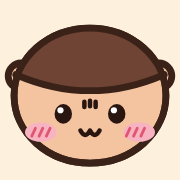
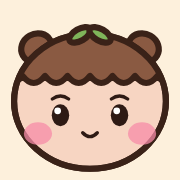
Replace the mascot with an original character (bamtori), add dome houses, default to sunset
Claude-Session: https://claude.ai/code/session_01LxcXJGcjpSvDKqZkVKpMtS

diff --git a/index.html b/index.html
@@ -3,7 +3,7 @@
 <head>
 <meta charset="utf-8">
 <meta name="viewport" content="width=device-width,initial-scale=1,viewport-fit=cover">
-<title>kurimanju</title>
+<title>bamtori</title>
 <link rel="icon" type="image/svg+xml" href="favicon.svg">
 <link rel="icon" type="image/png" sizes="32x32" href="favicon-32.png">
 <link rel="apple-touch-icon" href="apple-touch-icon.png">
@@ -11,7 +11,7 @@
 </head>
 <body>
 <style>
-/* Layout: full-bleed 3D forest floor; music and time-of-day controls bottom-right. */
+/* Layout: full-bleed 3D forest floor; a small caption bottom-left and time-of-day + friend controls bottom-right. */
 :root{
   --bg:#f3e3c8;
   --ink:#3b2a20;
@@ -44,7 +44,7 @@ svg{width:20px;height:20px;fill:none;stroke:currentColor;stroke-width:1.8;stroke
 button:focus-visible{outline:2px solid var(--accent);outline-offset:2px}
 </style>
 
-<canvas id="view" aria-label="밤만쥬가 가을 숲을 걸어다니는 3D 장면"></canvas>
+<canvas id="view" aria-label="밤톨이들이 마을 숲을 걸어 다니는 3D 장면"></canvas>
 <div class="ui">
   <div class="ctl">
     <div class="seg" id="musicWrap" hidden>
@@ -116,6 +116,47 @@ function tree(x,z,s){
 }
 for (let i=0;i<14;i++){ const a = i/14*Math.PI*2 + Math.random()*.25, r = 10 + Math.random()*4; tree(Math.cos(a)*r, Math.sin(a)*r, .9+Math.random()*.45); }
 for (let i=0;i<26;i++){ const a = i/26*Math.PI*2 + Math.random()*.2, r = 19 + Math.random()*11; tree(Math.cos(a)*r, Math.sin(a)*r, 1.5+Math.random()*1.1); }
+// ---- little white dome houses with an arched door and a cross window ----
+const HOUSES = [[7.6,-5.6,1.05],[-9,-3.8,1.1],[9.2,2.6,.95],[-7.4,6.2,1],[2.4,-9.4,1.1],[-1.6,9.2,.9]];
+(function(){
+  const R = 1.3, SX = 1.15, SY = .82, SZ = 1.0, A = R*SX, B = R*SY, C = R*SZ;
+  const domeGeo = new THREE.SphereGeometry(R, 36, 20, 0, Math.PI*2, 0, Math.PI/2);
+  const lightRamp = new THREE.DataTexture(new Uint8Array([215,250]), 2, 1, THREE.LuminanceFormat); lightRamp.minFilter = lightRamp.magFilter = THREE.NearestFilter; lightRamp.needsUpdate = true;
+  const wall = new THREE.MeshToonMaterial({color:0xfff8ee, gradientMap:lightRamp, emissive:0x6a5a4e});
+  const lineMat = new THREE.MeshBasicMaterial({color:0x4a2f26, side:THREE.BackSide});
+  const surf = (x,y) => C*Math.sqrt(Math.max(0, 1-(x/A)**2-(y/B)**2));
+  const tex = (w,h,draw) => { const c = document.createElement('canvas'); c.width = w; c.height = h; draw(c.getContext('2d'), w, h); const t = new THREE.CanvasTexture(c); t.anisotropy = 4; return t; };
+  const doorTex = tex(256,320,(g,w,h)=>{
+    g.beginPath(); g.moveTo(22,h); g.lineTo(22,128); g.arc(w/2,128,w/2-22,Math.PI,0); g.lineTo(w-22,h);
+    g.fillStyle='#cfe8e6'; g.fill(); g.lineWidth=15; g.strokeStyle='#4a2f26'; g.lineJoin='round'; g.stroke(); });
+  const winTex = tex(160,160,(g,w,h)=>{
+    g.fillStyle='#eaf4f4'; g.fillRect(14,14,w-28,h-28); g.strokeStyle='#4a2f26'; g.lineWidth=12; g.strokeRect(14,14,w-28,h-28);
+    g.lineWidth=9; g.beginPath(); g.moveTo(w/2,14); g.lineTo(w/2,h-14); g.moveTo(14,h/2); g.lineTo(w-14,h/2); g.stroke(); });
+  const decal = (t, w, h, cx, cy) => {
+    const geo = new THREE.PlaneGeometry(w, h, 12, 12), p = geo.attributes.position;
+    for (let i=0;i<p.count;i++){ const x = p.getX(i)+cx, y = p.getY(i)+cy; p.setXYZ(i, x, y, surf(x,y)+.015); }
+    return new THREE.Mesh(geo, new THREE.MeshBasicMaterial({map:t, transparent:true, polygonOffset:true, polygonOffsetFactor:-3, polygonOffsetUnits:-3})); };
+  HOUSES.forEach(([x,z,s])=>{
+    const g = new THREE.Group();
+    const dome = new THREE.Mesh(domeGeo, wall); dome.scale.set(SX,SY,SZ); g.add(dome);
+    const line = new THREE.Mesh(domeGeo, lineMat); line.scale.set(SX*1.035,SY*1.05,SZ*1.035); g.add(line);
+    g.add(decal(doorTex, .62, .78, 0, .39));
+    g.add(decal(winTex, .38, .38, -.66, .78));
+    g.position.set(x,0,z); g.scale.setScalar(s); g.rotation.y = Math.atan2(-x,-z);
+    scene.add(shade(g));
+    for (let i=0;i<4;i++){ const m = new THREE.Mesh(new THREE.BoxGeometry(.35+Math.random()*.2,.01,.02), new THREE.MeshBasicMaterial({color:0x4a2f26, transparent:true, opacity:.4}));
+      const a = Math.random()*6.28, r = (1.8+Math.random()*.7)*s; m.position.set(x+Math.cos(a)*r,.02,z+Math.sin(a)*r); m.rotation.y = Math.random()*3; scene.add(m); }
+  });
+})();
+// tufts of grass
+(function(){
+  const mat = T(0x5f8c47), cone = new THREE.ConeGeometry(.04,.3,4);
+  for (let i=0;i<46;i++){
+    const a = Math.random()*6.28, r = 2+Math.random()*9, g = new THREE.Group();
+    for (let j=-1;j<=1;j++){ const c = new THREE.Mesh(cone, mat); c.position.set(j*.07,.14,0); c.rotation.z = -j*.28; g.add(c); }
+    g.position.set(Math.cos(a)*r,0,Math.sin(a)*r); g.rotation.y = Math.random()*3; scene.add(g);
+  }
+})();
 // rolling hills far away; the fog turns them into soft pastel layers
 const hillMat = T(0xc9b070);
 for (let i=0;i<9;i++){ const a = i/9*Math.PI*2 + .3, r = 44 + (i%3)*5;
@@ -177,7 +218,7 @@ const flyGeo = new THREE.SphereGeometry(.05,6,4);
 const flies = Array.from({length:36},()=>{const m=new THREE.Mesh(flyGeo,new THREE.MeshBasicMaterial({color:0xfff3a0,transparent:true,opacity:0}));
   m.userData={o:new THREE.Vector3((Math.random()-.5)*20,.4+Math.random()*2.5,(Math.random()-.5)*20),ph:Math.random()*9};scene.add(m);return m;});
 
-// ---- Kurimanju: one soft bean-shaped body (head wider than body), chestnut cap with a curved edge ----
+// ---- The mascot: one soft bean-shaped body (head wider than body), chestnut cap with a curved edge ----
 const LINE = 0x3a2218;
 const bunRamp = new THREE.DataTexture(new Uint8Array([150,190]), 2, 1, THREE.LuminanceFormat);
 bunRamp.minFilter = bunRamp.magFilter = THREE.NearestFilter; bunRamp.needsUpdate = true;
@@ -192,65 +233,50 @@ const KURI = (() => {
   const at = y => { for (let i=1;i<prof.length;i++) if (prof[i].y>=y){ const f=(y-prof[i-1].y)/(prof[i].y-prof[i-1].y||1);
       return {r:prof[i-1].x+(prof[i].x-prof[i-1].x)*f, s:S[i-1]+(S[i]-S[i-1])*f}; } return {r:0,s:L}; };
   const W = 2048, H = Math.round(W*L/(2*Math.PI*RH)), k = W/(2*Math.PI*RH);
-  const edgeY = phi => .78 + .29*(1-Math.cos(2*phi))/2;
+  const edgeY = phi => .86 + .24*(1-Math.cos(2*phi))/2 - .045*Math.abs(Math.sin(4*phi));
 
   // one texture per expression; u wraps around (front = centre), v follows arc length
   function face(kind){
     const cv = document.createElement('canvas'); cv.width=W; cv.height=H; const g = cv.getContext('2d');
     const P = (x,y) => { const q = at(y); return [W/2 + Math.asin(Math.max(-1,Math.min(1,x/q.r)))/(2*Math.PI)*W, (1-q.s/L)*H]; };
-    g.fillStyle = '#fde4bd'; g.fillRect(0,0,W,H);
+    g.fillStyle = '#f7d5c2'; g.fillRect(0,0,W,H);
+    // chestnut cap with a scalloped lower edge
     g.beginPath(); g.moveTo(0,0);
     for (let px=0; px<=W; px+=4){ const phi=(px/W-.5)*2*Math.PI; g.lineTo(px, (1-at(edgeY(phi)).s/L)*H); }
-    g.lineTo(W,0); g.closePath(); g.fillStyle='#9a6650'; g.fill();
-    // outline only along the cap's lower edge, so no stray line shows where the texture wraps around the back
+    g.lineTo(W,0); g.closePath();
+    const cg = g.createLinearGradient(0,0,0,H*.34); cg.addColorStop(0,'#74482f'); cg.addColorStop(1,'#a06f50');
+    g.fillStyle = cg; g.fill();
     g.beginPath();
     for (let px=0; px<=W; px+=4){ const phi=(px/W-.5)*2*Math.PI; const y=(1-at(edgeY(phi)).s/L)*H; if (px===0) g.moveTo(px,y); else g.lineTo(px,y); }
     g.strokeStyle='#3a2218'; g.lineWidth=.022*k; g.lineJoin='round'; g.stroke();
-    const ink = '#2a1610';
+    const [hx,hy] = P(-.28, 1.36); g.fillStyle='rgba(255,232,205,.3)'; g.beginPath(); g.ellipse(hx,hy,.12*k,.05*k,-.4,0,7); g.fill();
+    const ink = '#2e1a14';
     [-1,1].forEach(sd=>{
-      const [ex,ey] = P(.27*sd, .58);
-      g.fillStyle=ink; g.beginPath(); g.ellipse(ex,ey,.06*k,.066*k,0,0,7); g.fill();
-      g.fillStyle='#fff'; g.beginPath(); g.ellipse(ex,ey+.014*k,.032*k,.024*k,0,0,7); g.fill();
-      g.fillStyle=ink; g.beginPath(); g.ellipse(ex,ey+.007*k,.036*k,.03*k,0,0,7); g.fill();
-      g.fillStyle='#fff'; g.beginPath(); g.arc(ex-.02*k,ey-.023*k,.018*k,0,7); g.fill();
-      const [bx,by] = P(.5*sd, .42);
-      g.fillStyle='#f7b3c2'; g.beginPath(); g.ellipse(bx,by,.135*k,.08*k,0,0,7); g.fill();
-      g.strokeStyle='#5a3328'; g.lineWidth=.013*k; g.lineCap='round';
-      for (let j=-1;j<=1;j++){ const x=bx+j*.058*k; g.beginPath(); g.moveTo(x+.018*k,by-.04*k); g.lineTo(x-.018*k,by+.04*k); g.stroke(); }
+      // round glossy eyes with a small brow above
+      const [ex,ey] = P(.29*sd, .6);
+      g.fillStyle=ink; g.beginPath(); g.ellipse(ex,ey,.056*k,.07*k,0,0,7); g.fill();
+      g.fillStyle='#fff'; g.beginPath(); g.arc(ex-.017*k,ey-.026*k,.02*k,0,7); g.fill();
+      g.beginPath(); g.arc(ex+.017*k,ey+.029*k,.01*k,0,7); g.fill();
+      const [bx,by] = P(.29*sd, .75);
+      g.strokeStyle=ink; g.lineWidth=.011*k; g.lineCap='round';
+      g.beginPath(); g.arc(bx,by+.03*k,.038*k,Math.PI*1.18,Math.PI*1.82); g.stroke();
+      // plain soft cheeks with a tiny shine
+      const [cx,cy] = P(.53*sd, .45);
+      g.fillStyle='rgba(247,140,168,.62)'; g.beginPath(); g.ellipse(cx,cy,.095*k,.078*k,0,0,7); g.fill();
+      g.fillStyle='rgba(255,255,255,.8)'; g.beginPath(); g.arc(cx-.027*k,cy-.022*k,.012*k,0,7); g.fill();
     });
-    g.strokeStyle=ink; g.fillStyle=ink; g.lineCap='round'; g.lineJoin='round'; g.lineWidth=.016*k;
-    const [wx,wy] = P(0, .64);
-    const line = (x1,y1,x2,y2)=>{ g.beginPath(); g.moveTo(x1,y1); g.lineTo(x2,y2); g.stroke(); };
-    if (kind === 'open'){
-      // scrunched nose lines fanning out
-      [-2,-1,0,1,2].forEach(j=>line(wx+j*.032*k, wy-.04*k+Math.abs(j)*.01*k, wx+j*.042*k, wy+.02*k));
-      line(wx-.07*k, wy+.04*k, wx+.07*k, wy+.04*k);
-      // wide open mouth with teeth and tongue
-      const [mx,my] = P(0, .47), w=.065*k, h=.09*k;
-      g.beginPath(); g.moveTo(mx-w, my-h*.45);
-      g.quadraticCurveTo(mx-w*.5, my-h*.2, mx, my-h*.5); g.quadraticCurveTo(mx+w*.5, my-h*.2, mx+w, my-h*.45);
-      g.quadraticCurveTo(mx+w*.8, my+h*.9, mx, my+h*.8); g.quadraticCurveTo(mx-w*.8, my+h*.9, mx-w, my-h*.45); g.closePath();
-      g.fillStyle='#4a1d1d'; g.fill(); g.stroke();
-      g.save(); g.clip();
-      g.fillStyle='#e9849a'; g.beginPath(); g.ellipse(mx, my+h*.65, w*.55, h*.45, 0, 0, 7); g.fill();
-      g.fillStyle='#fff';
-      for (let i=-3;i<=3;i++){ const tx=mx+i*w*.24; g.beginPath(); g.moveTo(tx-w*.1,my-h*.5); g.lineTo(tx+w*.1,my-h*.5); g.lineTo(tx,my-h*.12); g.fill(); }
-      g.restore();
-      const [cx2,cy2] = P(0, .33); line(cx2-.03*k, cy2, cx2+.03*k, cy2);
-    } else {
-      [-1,0,1].forEach(j=>line(wx+j*.03*k, wy-.022*k, wx+j*.03*k+.004*k, wy+.012*k));
-      const [mx,my] = P(0, .49), m=.034*k;
-      g.beginPath(); g.moveTo(mx-1.9*m, my-.5*m);
-      g.quadraticCurveTo(mx-1.6*m, my+.9*m, mx-.8*m, my+.6*m); g.quadraticCurveTo(mx-.2*m, my+.35*m, mx, my-.15*m);
-      g.quadraticCurveTo(mx+.2*m, my+.35*m, mx+.8*m, my+.6*m); g.quadraticCurveTo(mx+1.6*m, my+.9*m, mx+1.9*m, my-.5*m); g.stroke();
-      const [cx2,cy2] = P(0, .41);
-      g.beginPath(); g.moveTo(cx2-.03*k, cy2-.008*k); g.quadraticCurveTo(cx2, cy2+.022*k, cx2+.03*k, cy2-.008*k); g.stroke();
-      if (kind === 'munch'){ // crumbs on the cheek
-        g.fillStyle='#b57a4c'; [[.12,.45,.016],[.15,.41,.011],[-.13,.43,.012]].forEach(([x,y,r])=>{const [px,py]=P(x,y); g.beginPath(); g.arc(px,py,r*k,0,7); g.fill(); g.stroke();});
-      }
-      if (kind === 'sip'){ // little droplet under the mouth
-        const [dx,dy] = P(-.04, .44); g.beginPath(); g.moveTo(dx,dy-.02*k); g.quadraticCurveTo(dx+.022*k,dy+.02*k,dx,dy+.03*k); g.quadraticCurveTo(dx-.022*k,dy+.02*k,dx,dy-.02*k); g.stroke();
-      }
+    g.strokeStyle=ink; g.fillStyle=ink; g.lineCap='round'; g.lineJoin='round'; g.lineWidth=.014*k;
+    const [mx,my] = P(0, .48);
+    if (kind === 'open'){            // happy open smile
+      g.beginPath(); g.moveTo(mx-.07*k,my-.035*k); g.quadraticCurveTo(mx,my+.13*k,mx+.07*k,my-.035*k); g.closePath();
+      g.fillStyle='#5a2226'; g.fill(); g.stroke();
+      g.save(); g.clip(); g.fillStyle='#ef8a9c'; g.beginPath(); g.ellipse(mx,my+.075*k,.045*k,.03*k,0,0,7); g.fill(); g.restore();
+    } else if (kind === 'munch'){    // chewing
+      g.beginPath(); g.ellipse(mx,my+.01*k,.024*k,.03*k,0,0,7); g.fill();
+      g.fillStyle='#b57a4c'; [[.16,.5,.016],[.19,.45,.011],[-.15,.47,.012]].forEach(([x,y,r])=>{const [px,py]=P(x,y); g.beginPath(); g.arc(px,py,r*k,0,7); g.fill();});
+    } else {                         // tiny smile
+      g.beginPath(); g.arc(mx,my-.012*k,.038*k,.14*Math.PI,.86*Math.PI); g.stroke();
+      if (kind === 'sip'){ const [dx,dy] = P(.1,.43); g.beginPath(); g.moveTo(dx,dy-.022*k); g.quadraticCurveTo(dx+.024*k,dy+.02*k,dx,dy+.032*k); g.quadraticCurveTo(dx-.024*k,dy+.02*k,dx,dy-.022*k); g.stroke(); }
     }
     const tex = new THREE.CanvasTexture(cv); tex.anisotropy = 8;
     return new THREE.MeshToonMaterial({map:tex, gradientMap:bunRamp});
@@ -258,10 +284,10 @@ const KURI = (() => {
   const bodyGeo = new THREE.LatheGeometry(prof, 72, Math.PI, Math.PI*2);
   const hullGeo = bodyGeo.clone(); { const p=hullGeo.attributes.position, n=hullGeo.attributes.normal;
     for (let i=0;i<p.count;i++) p.setXYZ(i, p.getX(i)+n.getX(i)*.028, p.getY(i)+n.getY(i)*.028, p.getZ(i)+n.getZ(i)*.028); }
-  const earPos = sd => { const y=1.0, q=at(y); return new THREE.Vector3(q.r*.98*sd, y, 0); };
+  const earPos = sd => { const y=1.1, q=at(y); return new THREE.Vector3(q.r*.9*sd, y, -.02); };
   const torsoGeo = new THREE.SphereGeometry(.52, 40, 28);
   const faces = {}; const faceMat = kind => faces[kind] || (faces[kind] = face(kind));
-  return { bodyGeo, hullGeo, torsoGeo, earPos, faceMat, cream: toon(0xfde4bd),
+  return { bodyGeo, hullGeo, torsoGeo, earPos, faceMat, cream: toon(0xf7d5c2), capMat: toon(0x8a5a42), leafMat: toon(0x7fb55a),
     line: new THREE.MeshBasicMaterial({color:LINE, side:THREE.BackSide}), nub: new THREE.SphereGeometry(1, 20, 14) };
 })();
 // outlined part: the mesh plus a slightly larger back-face shell in the line colour
@@ -270,8 +296,8 @@ function part(parent, geo, mat, pos, scl=[1,1,1], pad=.025){
   const o = new THREE.Mesh(geo, KURI.line); o.scale.set(1+pad/Math.max(.05,scl[0])*0+pad*3, 1+pad*3, 1+pad*3); m.add(o);
   return m;
 }
-function nub(parent, x,y,z, sx,sy,sz){
-  const m = new THREE.Mesh(KURI.nub, KURI.cream); m.position.set(x,y,z); m.scale.set(sx,sy,sz); parent.add(m);
+function nub(parent, x,y,z, sx,sy,sz, mat){
+  const m = new THREE.Mesh(KURI.nub, mat || KURI.cream); m.position.set(x,y,z); m.scale.set(sx,sy,sz); parent.add(m);
   const o = new THREE.Mesh(KURI.nub, KURI.line); o.scale.set(1+.028/sx,1+.028/sy,1+.028/sz); m.add(o);
   return m;
 }
@@ -279,8 +305,8 @@ function nub(parent, x,y,z, sx,sy,sz){
 const PROPS = {
   can(h){ const g=new THREE.Group();
     part(g,new THREE.CylinderGeometry(.11,.11,.08,20),toon(0xd9d9d6),[0,.12,0]);
-    part(g,new THREE.CylinderGeometry(.11,.11,.12,20),toon(0xd67554),[0,.02,0]);
-    part(g,new THREE.CylinderGeometry(.11,.11,.1,20),toon(0xf5c9c4),[0,-.09,0]);
+    part(g,new THREE.CylinderGeometry(.11,.11,.12,20),toon(0x6fc4b8),[0,.02,0]);
+    part(g,new THREE.CylinderGeometry(.11,.11,.1,20),toon(0xfdf3e7),[0,-.09,0]);
     g.position.set(.34,.38,.5); h.add(g); return [.49,.4,.35]; },
   glass(h){ const g=new THREE.Group();
     const c=new THREE.Mesh(new THREE.CylinderGeometry(.17,.14,.34,24,1,true),new THREE.MeshPhongMaterial({color:0xf2fbff,transparent:true,opacity:.35,side:THREE.DoubleSide,shininess:90}));
@@ -288,14 +314,14 @@ const PROPS = {
     const lemon=part(g,new THREE.CylinderGeometry(.055,.055,.02,20),toon(0xf6d84a),[-.15,.17,.05]); lemon.rotation.set(Math.PI/2,0,.4);
     g.position.set(.27,.4,.52); h.add(g); return [.49,.38,.38]; },
   manju(h){ const g=new THREE.Group();
-    part(g,new THREE.SphereGeometry(.1,16,10,0,Math.PI*2,0,Math.PI/2),toon(0x7a4a32),[0,0,0],[1,.8,1]);
-    part(g,new THREE.CylinderGeometry(.1,.095,.06,16),toon(0xf2d3a2),[0,-.03,0]);
+    part(g,new THREE.SphereGeometry(.1,16,12),toon(0x7a4a32),[0,0,0],[1,.9,1]);
+    part(g,new THREE.SphereGeometry(.045,10,8),toon(0xf2d3a2),[0,.075,.045]);
     g.position.set(.42,.46,.42); h.add(g); return [.44,.36,.36]; },
-  sausage(h){ const g=new THREE.Group();   // corn-dog style: a stick with the sausage on top, held upright
+  sausage(h){ const g=new THREE.Group();   // a stick of three sweet dumplings, held upright
     part(g,new THREE.CylinderGeometry(.014,.014,.5,8),toon(0xd9b784),[0,0,0],[1,1,1],.01);
-    part(g,new THREE.CylinderGeometry(.06,.06,.24,14),toon(0xa8432e),[0,.1,0]);
-    part(g,new THREE.SphereGeometry(.06,12,8),toon(0xa8432e),[0,.22,0]);
-    part(g,new THREE.SphereGeometry(.06,12,8),toon(0xa8432e),[0,-.02,0]);
+    part(g,new THREE.SphereGeometry(.062,14,10),toon(0xf6a5b8),[0,.2,0]);
+    part(g,new THREE.SphereGeometry(.062,14,10),toon(0xfdf3e7),[0,.08,0]);
+    part(g,new THREE.SphereGeometry(.062,14,10),toon(0x9fd18a),[0,-.04,0]);
     g.position.set(.44,.2,.38); h.add(g); return [.47,.3,.34]; },
 };
 // the five versions, from the reference pictures
@@ -316,9 +342,10 @@ function makeBun(scale=1, variant=0){
   const head = new THREE.Object3D(); head.position.y = .6; body.add(head);
   const b = new THREE.Mesh(KURI.bodyGeo, KURI.faceMat(V.face)); b.scale.z = .9; head.add(b);
   const hull = new THREE.Mesh(KURI.hullGeo, KURI.line); hull.scale.z = .9; head.add(hull);
+  [-1,1].forEach(sd => { nub(head, .1*sd, 1.27, .02, .13, .05, .07, KURI.leafMat).rotation.z = -.55*sd; });
   const feet = [];
   [-1,1].forEach(sd=>{
-    const e = KURI.earPos(sd); nub(head, e.x, e.y, -.02, .1, .085, .08);
+    const e = KURI.earPos(sd); nub(head, e.x, e.y, e.z, .15, .13, .08, KURI.capMat).rotation.z = -.55*sd;
     if (!(V.prop && sd === 1)) nub(body, .55*sd, .48, .08, .1, .15, .1).rotation.z = .4*sd;
     feet.push(nub(body, .24*sd, .04, .22, .16, .085, .18));
   });
@@ -343,7 +370,7 @@ function pick(bun){
     if (Math.random() < .5) ang = Math.atan2(camera.position.x-p.x, camera.position.z-p.z) + (Math.random()-.5)*1.4;
     const r = 2 + Math.random()*3.5;
     bun.target.set(p.x + Math.sin(ang)*r, 0, p.z + Math.cos(ang)*r);
-    if (bun.target.length() < 8 && bun.target.distanceTo(pond) > 3.4) return;
+    if (bun.target.length() < 8 && bun.target.distanceTo(pond) > 3.4 && HOUSES.every(([hx,hz,hs]) => Math.hypot(bun.target.x-hx, bun.target.z-hz) > 2.6*hs)) return;
   }
   bun.target.set((Math.random()-.5)*6, 0, (Math.random()-.5)*6);
 }
@@ -383,7 +410,7 @@ function step(bun, dt, t){
 // ---- time of day ----
 const TIMES = [
   {hill:0xd9c58a, top:0xbcd8ee, sky:0xf6e6c6, ground:0x9cb36a, hemi:[0xfff6e0,0x8a6a44,.65], sun:[0xfff2d8,.95], lamp:0, fly:0, page:'#f3e3c8'},
-  {hill:0xc89a78, top:0x9a86bb, sky:0xf2a77c, ground:0x9a9a58, hemi:[0xffc9a0,0x6a3a3a,.55], sun:[0xff9a62,.85], lamp:.6, fly:.2, page:'#efb08a'},
+  {hill:0xdcae94, top:0xb4a0cc, sky:0xf6bc9a, ground:0xaab36c, hemi:[0xffd9bc,0x7c5a54,.72], sun:[0xffb584,.8], lamp:.6, fly:.2, page:'#efb08a'},
   {hill:0x2c3a58, top:0x0d1030, sky:0x1e2448, ground:0x3e5440, hemi:[0x7f8ad8,0x1a1a2c,.4], sun:[0x9fb0ff,.25], lamp:2.2, fly:1, page:'#1e2448'},
 ];
 let flyLevel = 0, flyTarget = 0;
@@ -398,7 +425,7 @@ function setTime(i){
 }
 document.querySelectorAll('.seg button[data-t]').forEach(b=>b.addEventListener('click',()=>setTime(+b.dataset.t)));
 
-// ---- everyone who has this page open gets their own Kurimanju ----
+// ---- everyone who has this page open gets their own The mascot ----
 const people = new Map();   // peer label -> bun
 const youMark = new THREE.Mesh(new THREE.ConeGeometry(.12,.22,4), new THREE.MeshBasicMaterial({color:0xf27a9a}));
 youMark.rotation.x = Math.PI; youMark.position.y = 2.15; youMark.visible = false; buns[0].g.add(youMark);
@@ -433,7 +460,7 @@ async function supabaseRoom(){
   }
   const client = window.supabase.createClient(KURI_ONLINE.url, KURI_ONLINE.anonKey);
   const myKey = (crypto.randomUUID ? crypto.randomUUID() : String(Math.random()).slice(2));
-  const ch = client.channel('kurimanju-forest', {config:{presence:{key:myKey}}});
+  const ch = client.channel('bamtori-forest', {config:{presence:{key:myKey}}});
   let listener = null;
   const publish = () => {
     if (!listener) return;
@@ -486,6 +513,9 @@ function frame(){
     pa.x -= nx*push; pa.z -= nz*push; pb.x += nx*push; pb.z += nz*push;
     hit.add(A); hit.add(B);
   }
+  buns.forEach(b=>{ const p = b.g.position; HOUSES.forEach(([hx,hz,hs])=>{
+    const dx = p.x-hx, dz = p.z-hz, d = Math.hypot(dx,dz), min = 1.75*hs + .5*b.g.scale.x;
+    if (d < min && d > .001){ p.x = hx + dx/d*min; p.z = hz + dz/d*min; hit.add(b); } }); });
   // someone stuck against another one picks a new place to go
   buns.forEach(b=>{ b.blockT = hit.has(b) ? (b.blockT||0) + dt : 0; if (b.blockT > 1.2){ b.blockT = 0; b.wait = 0; pick(b); } });
   idle += dt; if (!dragging){ yawV *= .92; yaw += yawV; if (idle > 4 && !reduce) yaw += dt*.03; }
@@ -503,15 +533,15 @@ function frame(){
   renderer.render(scene, camera);
   requestAnimationFrame(frame);
 }
-resize(); setTime(0); frame();
+resize(); setTime(1); frame();
 
 // ---- background music: browsers block autoplay, so it starts on the first tap or key press ----
 // The track is audio/bgm.mp3. If that file is not there, the music button stays hidden.
 (() => {
   const wrap = document.getElementById('musicWrap'), btn = document.getElementById('music');
   const audio = new Audio('audio/bgm.mp3'); audio.loop = true; audio.volume = .45; audio.preload = 'auto';
-  let want = true; try { want = localStorage.getItem('kurimanju-music') !== 'off'; } catch (e) {}
-  const remember = () => { try { want ? localStorage.removeItem('kurimanju-music') : localStorage.setItem('kurimanju-music', 'off'); } catch (e) {} };
+  let want = true; try { want = localStorage.getItem('bamtori-music') !== 'off'; } catch (e) {}
+  const remember = () => { try { want ? localStorage.removeItem('bamtori-music') : localStorage.setItem('bamtori-music', 'off'); } catch (e) {} };
   const show = () => { const on = !audio.paused; btn.setAttribute('aria-pressed', String(on)); btn.setAttribute('aria-label', on ? '음악 끄기' : '음악 켜기'); };
   audio.addEventListener('canplaythrough', () => { wrap.hidden = false; show(); }, {once:true});
   audio.addEventListener('error', () => { wrap.hidden = true; });

diff --git a/README.md b/README.md
@@ -1,6 +1,7 @@
-# kurimanju
+# bamtori
 
-가을 숲속 공터를 쿠리만주들이 돌아다니는 3D 웹페이지예요. 빌드 과정 없이 `index.html` 하나로 돌아가고, three.js(r128)는 cdnjs에서 불러와요.
+가을 마을 공터를 밤톨이들이 돌아다니는 3D 웹페이지예요. 밤톨이는 이 프로젝트의 오리지널 마스코트이고, 이름은 임시예요.
+빌드 과정 없이 `index.html` 하나로 돌아가고, three.js(r128)는 cdnjs에서 불러와요.
 
 ## 실행
 
@@ -12,31 +13,18 @@ npx serve .
 
 ## 기능
 
-- 쿠리만주 다섯 버전: 기본, 캔음료, 레모네이드, 밤만쥬 먹기, 소시지
+- 밤톨이 다섯 버전: 기본, 주스, 레모네이드, 밤 간식, 경단
+- 하얀 돔 집, 연못, 단풍나무, 풀숲이 있는 마을 공터 (기본은 노을)
 - 오른쪽 아래 아이콘으로 낮 / 노을 / 밤 전환 (밤에는 가로등과 반딧불이)
 - 화면을 드래그하면 둘러보기
-- 배경음악: 첫 터치 때 재생되고, 오른쪽 아래 스피커 버튼으로 끄고 켤 수 있어요
+- 배경음악: 첫 터치 때 재생되고, 스피커 버튼으로 끄고 켤 수 있어요
 
-## 접속한 사람마다 쿠리만주 늘리기
+## 접속한 사람마다 밤톨이 늘리기
 
-지금 페이지를 열어 둔 사람마다 쿠리만주가 한 마리씩 같은 숲에 나타나고, 나가면 사라져요.
-서버 코드나 데이터베이스 없이 Supabase Realtime(presence)만 써요. 무료 요금제로 충분해요.
-
-1. [supabase.com](https://supabase.com)에서 무료 프로젝트를 만들어요.
-2. Project Settings > API에서 `Project URL`과 `anon public` 키를 복사해요. anon 키는 브라우저에 공개해도 되는 키예요.
-3. `index.html`에서 아래 줄을 찾아 두 값을 채워요.
-
-```js
-const KURI_ONLINE = { url: '', anonKey: '' };
-```
-
-값을 비워 두면 혼자 보는 모드로 동작해요. claude.ai 아티팩트 안에서 열 때는 이 설정 없이도 같이 보여요.
-
-## 배포 (GitHub Pages)
-
-저장소 Settings > Pages에서 배포할 브랜치와 `/ (root)` 폴더를 고르면 `https://scrawl-labs.github.io/kurimanju/` 주소로 열려요.
+지금 페이지를 열어 둔 사람마다 밤톨이가 한 마리씩 같은 마을에 나타나고, 나가면 사라져요.
+서버 코드나 데이터베이스 없이 Supabase Realtime(presence)만 써요. `index.html`의 `KURI_ONLINE`에 프로젝트 URL과 anon 키가 들어 있고, 비워 두면 혼자 보는 모드로 동작해요.
 
 ## 배경음악
 
 음악 파일은 `audio/bgm.mp3` 경로에서 불러와요. 파일이 없으면 스피커 버튼도 보이지 않아요.
-이 저장소는 공개 저장소라서 음원 파일은 올려 두지 않았어요. 직접 쓸 수 있는 곡(저작권이 있거나 이용 허락을 받은 곡)을 `audio/bgm.mp3`로 넣고 푸시하면 돼요.
+쓸 수 있는 곡(직접 만들었거나 이용 허락을 받은 곡)을 `audio/bgm.mp3`로 넣고 푸시하면 돼요.
